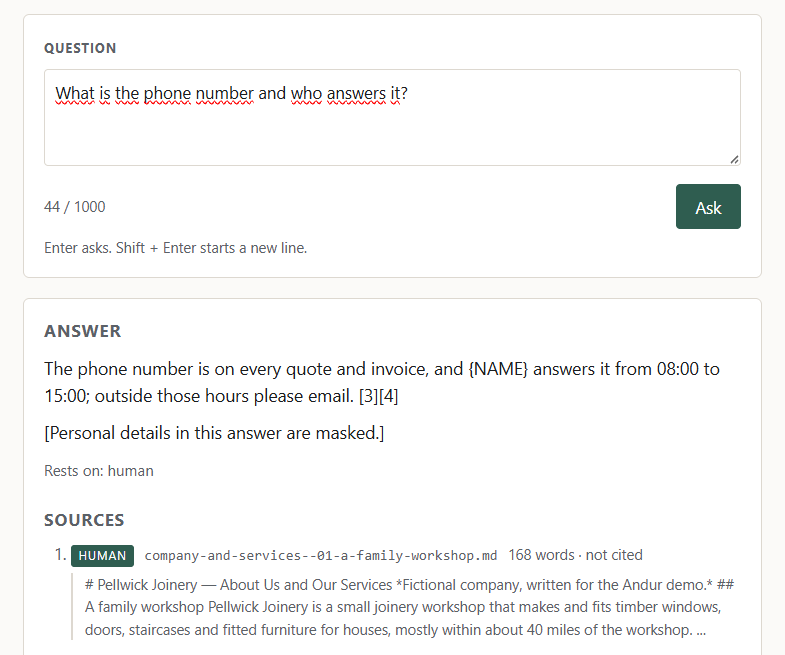
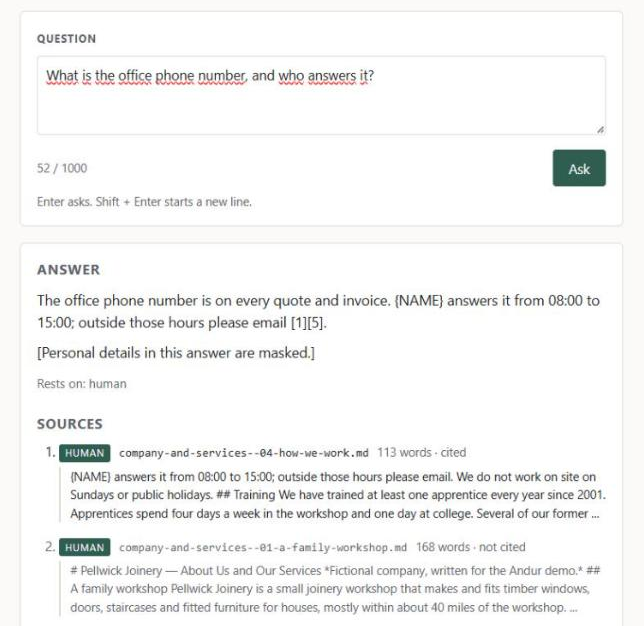
docs: recordings from eu-west-1 with Nova Pro, add AGENTS.md

diff --git a/AGENTS.md b/AGENTS.md
@@ -1,0 +1,52 @@
+# AGENTS.md
+
+Andur answers questions from a company's own documents, on AWS, defined as
+code (CDK in Python). `README.md` says what it does, `docs/architecture.md`
+how it is built, `scripts/README.md` how the scripts work.
+
+## Setup
+
+Needs Python 3.11 or newer, Node.js (CDK synthesizes through jsii, and some
+tests run `web/markdown.js`) and the CDK CLI.
+
+```bash
+python -m venv .venv
+source .venv/bin/activate        # Windows: .venv\Scripts\activate
+pip install -e ".[dev]"
+```
+
+## Checks
+
+Run all three before you finish. CI (`.github/workflows/ci.yml`) runs the
+same. They need no AWS; the tests took about a minute.
+
+```bash
+ruff check
+ruff format --check
+pytest -q
+```
+
+## The stack
+
+```bash
+cdk synth    # builds the template, no AWS call
+cdk diff     # compares it with the deployed stack; needs an AWS login, changes nothing
+```
+
+`cdk diff` on unchanged code still lists `SynthesisedAt` on the two
+`Custom::AndurApiKey` resources; that is the time of the synth.
+
+## Limits
+
+- **Only the operator deploys.** Never run `cdk deploy` or `cdk destroy`.
+- `python -m scripts.evaluate` calls real models on AWS and costs real money.
+  Run it only when asked. `ingest`, `retrieve` and `ask` also talk to the
+  deployed stack; see `scripts/README.md`.
+- **Region is `eu-west-1`,** pinned in `infra/app.py`. Use EU inference
+  profiles, never a global one.
+- **Model IDs and prices live only in `infra/answer_models.py`.** Add a model
+  there first; do not copy an ID or a price anywhere else.
+- **No secrets in code, tests, logs or messages:** no API keys, no parameter
+  values, no account IDs. Local secrets go in `.env`, which git ignores. The
+  output of `cdk diff` names the account; do not paste it.
+- Commit only when asked, as Conventional Commits (`feat:`, `fix:`, `docs:`).

diff --git a/README.md b/README.md
@@ -9,13 +9,15 @@ notes in files and would rather ask than search, and one installation
 serves several companies without one ever seeing another's documents. It
 runs on AWS, defined as code, with no part that bills a monthly base fee.
 
-![An answer in the browser: the question, the answer with a masked name and its citations, and the first source](docs/screenshot-answer.png)
+![An answer in the browser to "What is the office phone number, and who answers it?": the name is masked as {NAME}, a note says personal details are masked, and the first two sources are listed, the first one cited](docs/screenshot-answer.png)
 
-A walkthrough from workspace to answer — a question about the warranty on
-painted windows, answered with four sources and the cost line (screenshot
-and walkthrough recorded in us-east-1, before the move to eu-west-1):
+A walkthrough of one question, recorded on 28.09.2026 in eu-west-1 with Nova
+Pro, the workspace and key already entered: what the guarantee on painted
+windows covers and what to do to keep it, answered with two citations out of
+four sources, and the cost line under them (1357 tokens in, 73 out, 0.002717
+USD, 3425 ms in the function):
 
-![Walkthrough: choosing the workspace, asking a question, the answer with four sources and its cost](docs/walkthrough.gif)
+![Walkthrough: typing a question about the guarantee on painted windows, asking it, and the answer with four sources and its cost line](docs/walkthrough.gif)
 
 ## Measured
 

diff --git a/docs/architecture.md b/docs/architecture.md
@@ -134,4 +134,5 @@ tests/       stack template, answer function, key generator, scripts, page
    same address. *(done)*
 6. **Guardrails** — topic, PII and hallucination filters, and the cost of
    every answer in its log line. *(done)*
-7. **Release** — screenshots, a walkthrough, a tagged version. *(done)*
+7. **Release** — screenshots and a walkthrough *(done)*. There is no tagged
+   version; Andur stays private.
